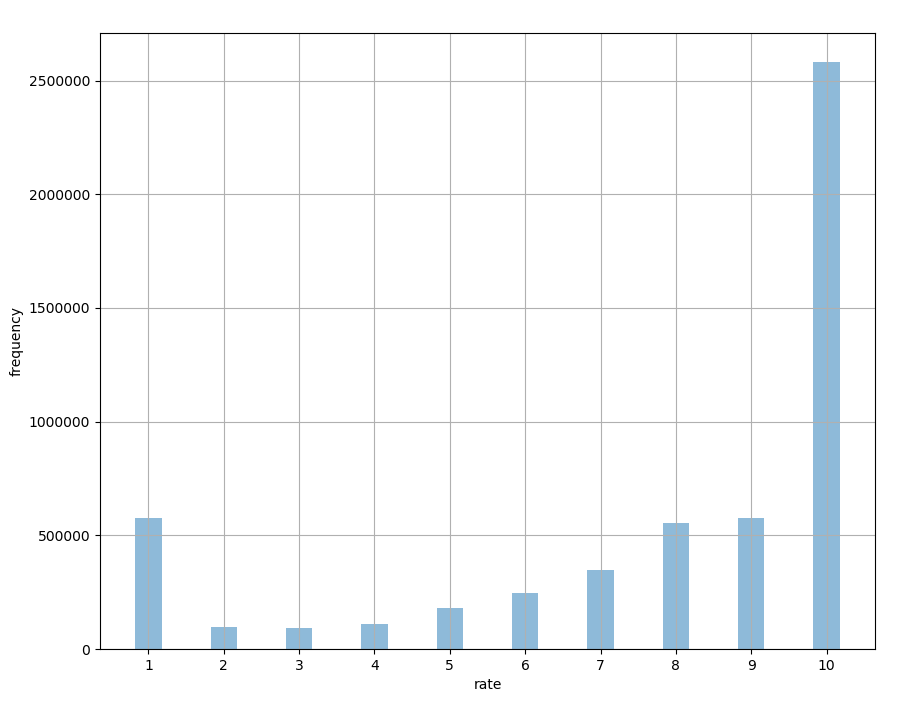
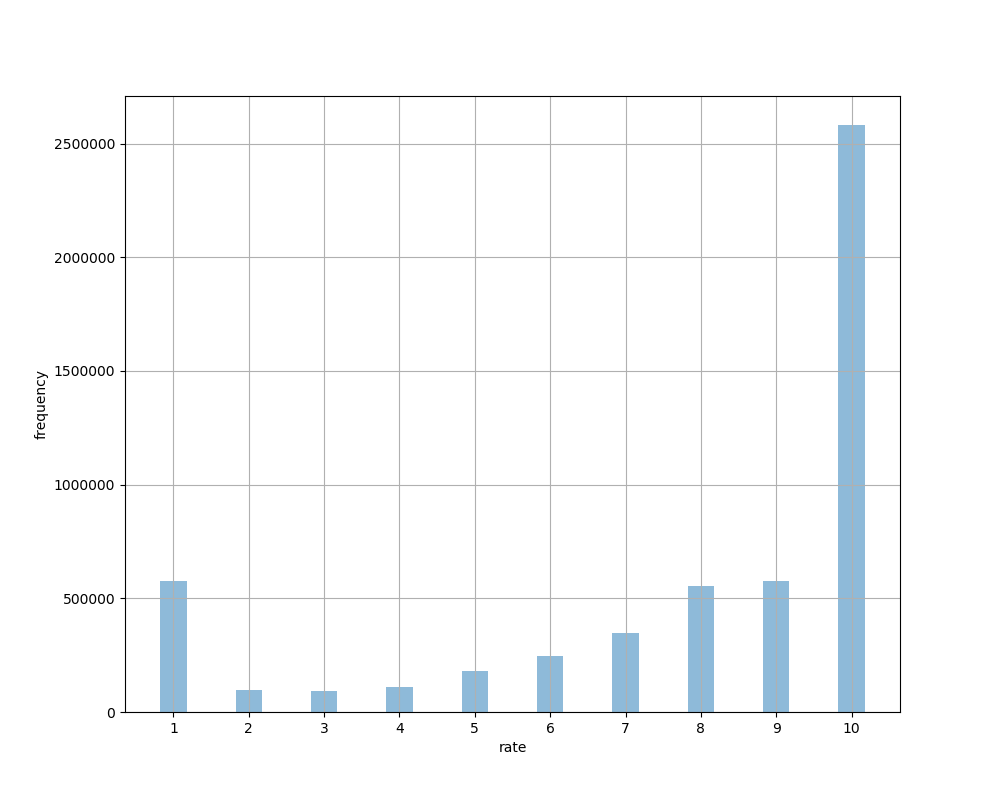
fix: shaping

diff --git a/main.py b/main.py
@@ -126,8 +126,8 @@ if __name__ == '__main__':
     rate_10_idx = [idx for idx, y in tqdm(enumerate(y_data)) if np.argmax(y, axis=-1) == 9]
     rand_idx = np.random.choice(rate_10_idx, len(rate_10_idx) // 5)
 
-    x_data = np.delete(x_data, rand_idx)
-    y_data = np.delete(y_data, rand_idx)
+    x_data = np.delete(x_data, rand_idx).reshape(-1, config.embed_size)
+    y_data = np.delete(y_data, rand_idx).reshape(-1, config.n_classes)
 
     if config.verbose:
         print("[*] refined comment : ", x_data.shape)
